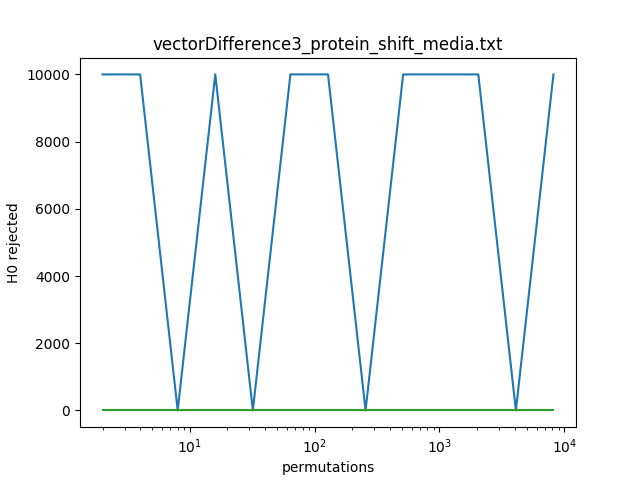
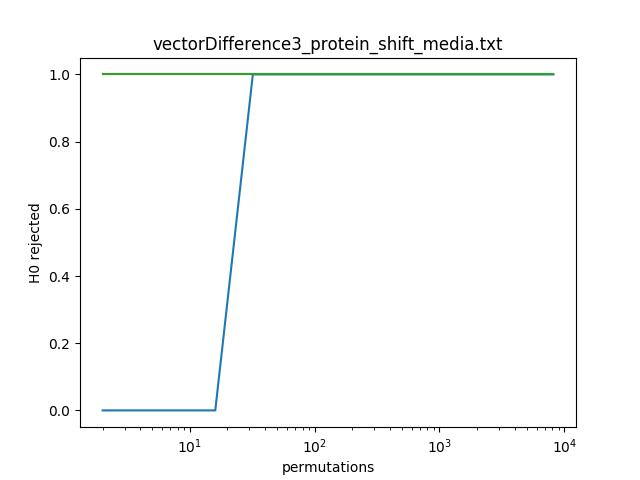
proper images

diff --git a/ssh/generationDir/test.py b/ssh/generationDir/test.py
@@ -30,6 +30,7 @@ def readFile(file):
     ns2 = 0;
 
     success = {}
+    l = []
     a = 2
 
     while a < 10000:
@@ -51,7 +52,11 @@ def readFile(file):
     print (f1)
     print (f2)
     print (success[8192] / 1000)
-    createGraph(file, f1, f2, list(success.values()))
+    a = 2
+    while a < 10000:
+        l.append(float(success[a]) / 10000)
+        a = a * 2
+    createGraph(file, f1, f2, l)
 
 os.chdir("./outputs/")
 for file in glob.glob("*.txt"):

diff --git a/cl/main.cpp b/cl/main.cpp
@@ -160,7 +160,7 @@ int main()
 	pt::ContextList indicies;
 	indicies.push_back(pt::DevicesList());
 	indicies[0].push_back(0);
-	
+
 	pt::KernelLoader::initKernelLoader("./kernels");
 	pt::Environement::initEnvironement(indicies);
 
